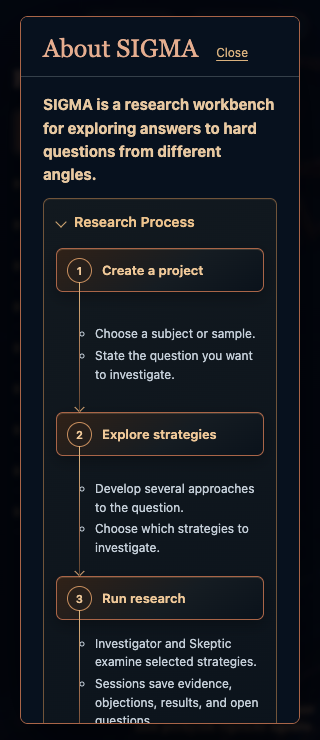
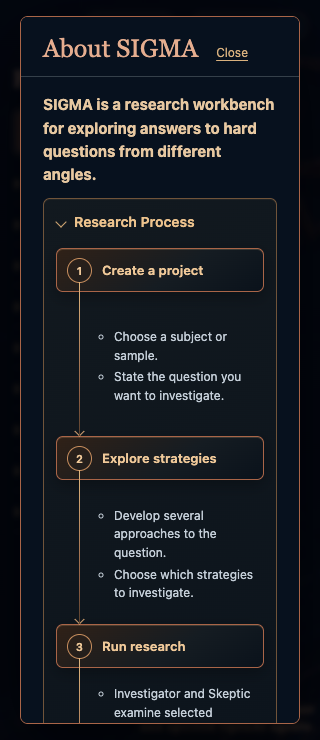
Keep mobile bullets clear of workflow connectors

Changed region(s): [[0.1562, 0.4351, 0.8125, 0.9946], [0.8125, 0.777, 0.8438, 0.9014], [0.8125, 0.5595, 0.8438, 0.6527]]

diff --git a/frontend/src/project-entry.css b/frontend/src/project-entry.css
@@ -206,12 +206,12 @@
   .home-page .about-dialog .entry-dialog-header { margin: -16px -16px 14px; padding: 14px 16px 11px; }
   .home-page .about-dialog-content { font-size: 12px; }
   .home-page .about-disclosure-content { padding: 0 10px 11px; }
-  .home-page .about-workflow { grid-template-rows: repeat(6, 164px); gap: 0; }
-  .home-page .about-workflow-stage { grid-template-columns: minmax(0, 1fr); gap: 5px; align-items: start; height: 164px; }
+  .home-page .about-workflow { grid-template-rows: repeat(6, 188px); gap: 0; }
+  .home-page .about-workflow-stage { grid-template-columns: minmax(0, 1fr); gap: 5px; align-items: start; height: 188px; }
   .home-page .about-workflow-step { min-height: 44px; padding: 8px 10px; }
   .home-page .about-workflow-stage:not(:last-child)::after { top: 34px; bottom: 0; left: 23px; }
   .home-page .about-workflow-stage:not(:last-child)::before { bottom: 1.25px; left: 20px; }
-  .home-page .about-workflow-notes { padding-left: 39px; font-size: 12px; line-height: 1.55; }
+  .home-page .about-workflow-notes { padding-left: 58px; font-size: 12px; line-height: 1.55; }
   .home-page .about-strategy-cards { grid-template-columns: minmax(0, 1fr); gap: 7px; }
   .home-page .about-session-frame, .home-page .about-strategy-group { padding: 9px; }
   .home-page .about-exploration-space { padding: 8px 6px; }

diff --git a/browser_checks/issue441_research_process.py b/browser_checks/issue441_research_process.py
@@ -173,8 +173,9 @@ def main() -> None:
                     "Narrow About dialog must not overflow horizontally",
                 )
                 mobile_geometry = workflow.evaluate(
-                    "e => { const stages=[...e.querySelectorAll('.about-workflow-stage')], boxes=stages.map(li=>li.querySelector('.about-workflow-step').getBoundingClientRect()), pitches=boxes.slice(1).map((b,i)=>b.top-boxes[i].top), lines=stages.slice(0,-1).map((li,i)=>{const r=li.getBoundingClientRect(),n=li.querySelector('.about-workflow-number').getBoundingClientRect(),next=boxes[i+1],c=getComputedStyle(li,'::after');return {start:Math.abs(r.top+parseFloat(c.top)-n.bottom),end:Math.abs(r.bottom-parseFloat(c.bottom)-next.top),x:Math.abs(r.left+parseFloat(c.left)+parseFloat(c.width)/2-(n.left+n.width/2))}}); return {pitches, lines, notes:stages.map(li=>({bottom:li.querySelector('.about-workflow-notes').getBoundingClientRect().bottom,rowBottom:li.getBoundingClientRect().bottom}))}; }"
+                    "e => { const stages=[...e.querySelectorAll('.about-workflow-stage')], boxes=stages.map(li=>li.querySelector('.about-workflow-step').getBoundingClientRect()), pitches=boxes.slice(1).map((b,i)=>b.top-boxes[i].top), lines=stages.slice(0,-1).map((li,i)=>{const r=li.getBoundingClientRect(),n=li.querySelector('.about-workflow-number').getBoundingClientRect(),next=boxes[i+1],c=getComputedStyle(li,'::after');return {start:Math.abs(r.top+parseFloat(c.top)-n.bottom),end:Math.abs(r.bottom-parseFloat(c.bottom)-next.top),x:Math.abs(r.left+parseFloat(c.left)+parseFloat(c.width)/2-(n.left+n.width/2))}}), markerClearances=stages.slice(0,-1).map(li=>{const c=getComputedStyle(li,'::after'),r=li.getBoundingClientRect(),notes=li.querySelector('.about-workflow-notes'),first=notes.querySelector('li'),range=document.createRange();range.selectNodeContents(first);const text=range.getBoundingClientRect(),markerWidth=parseFloat(getComputedStyle(first,'::marker').fontSize),connectorRight=r.left+parseFloat(c.left)+parseFloat(c.width);return text.left-markerWidth-connectorRight}); return {pitches, lines, markerClearances, notes:stages.map(li=>({bottom:li.querySelector('.about-workflow-notes').getBoundingClientRect().bottom,rowBottom:li.getBoundingClientRect().bottom}))}; }"
                 )
+                # Reserve one marker em plus an 8px gap between each outgoing spine and bullet lane.
                 assert (
                     max(mobile_geometry["pitches"]) - min(mobile_geometry["pitches"]) < 1.5
                     and all(
@@ -182,6 +183,7 @@ def main() -> None:
                         for line in mobile_geometry["lines"]
                         for axis in ("start", "end", "x")
                     )
+                    and all(clearance >= 8 for clearance in mobile_geometry["markerClearances"])
                     and all(
                         note["bottom"] <= note["rowBottom"] + 1 for note in mobile_geometry["notes"]
                     )
@@ -217,7 +219,7 @@ def main() -> None:
             )
             assert not errors, errors
             print(
-                "PASS #441 Research Process, exact two bullets per stage, uniform box pitch, flush connector geometry, desktop/mobile layout, and persistent disclosure state; architecture diagram preserved."
+                "PASS #441 Research Process, two bullets per stage, uniform box pitch, flush connectors, mobile bullet-marker clearance, unclipped desktop/mobile layout, and persistent disclosure state; architecture diagram preserved."
             )
         finally:
             browser.close()
